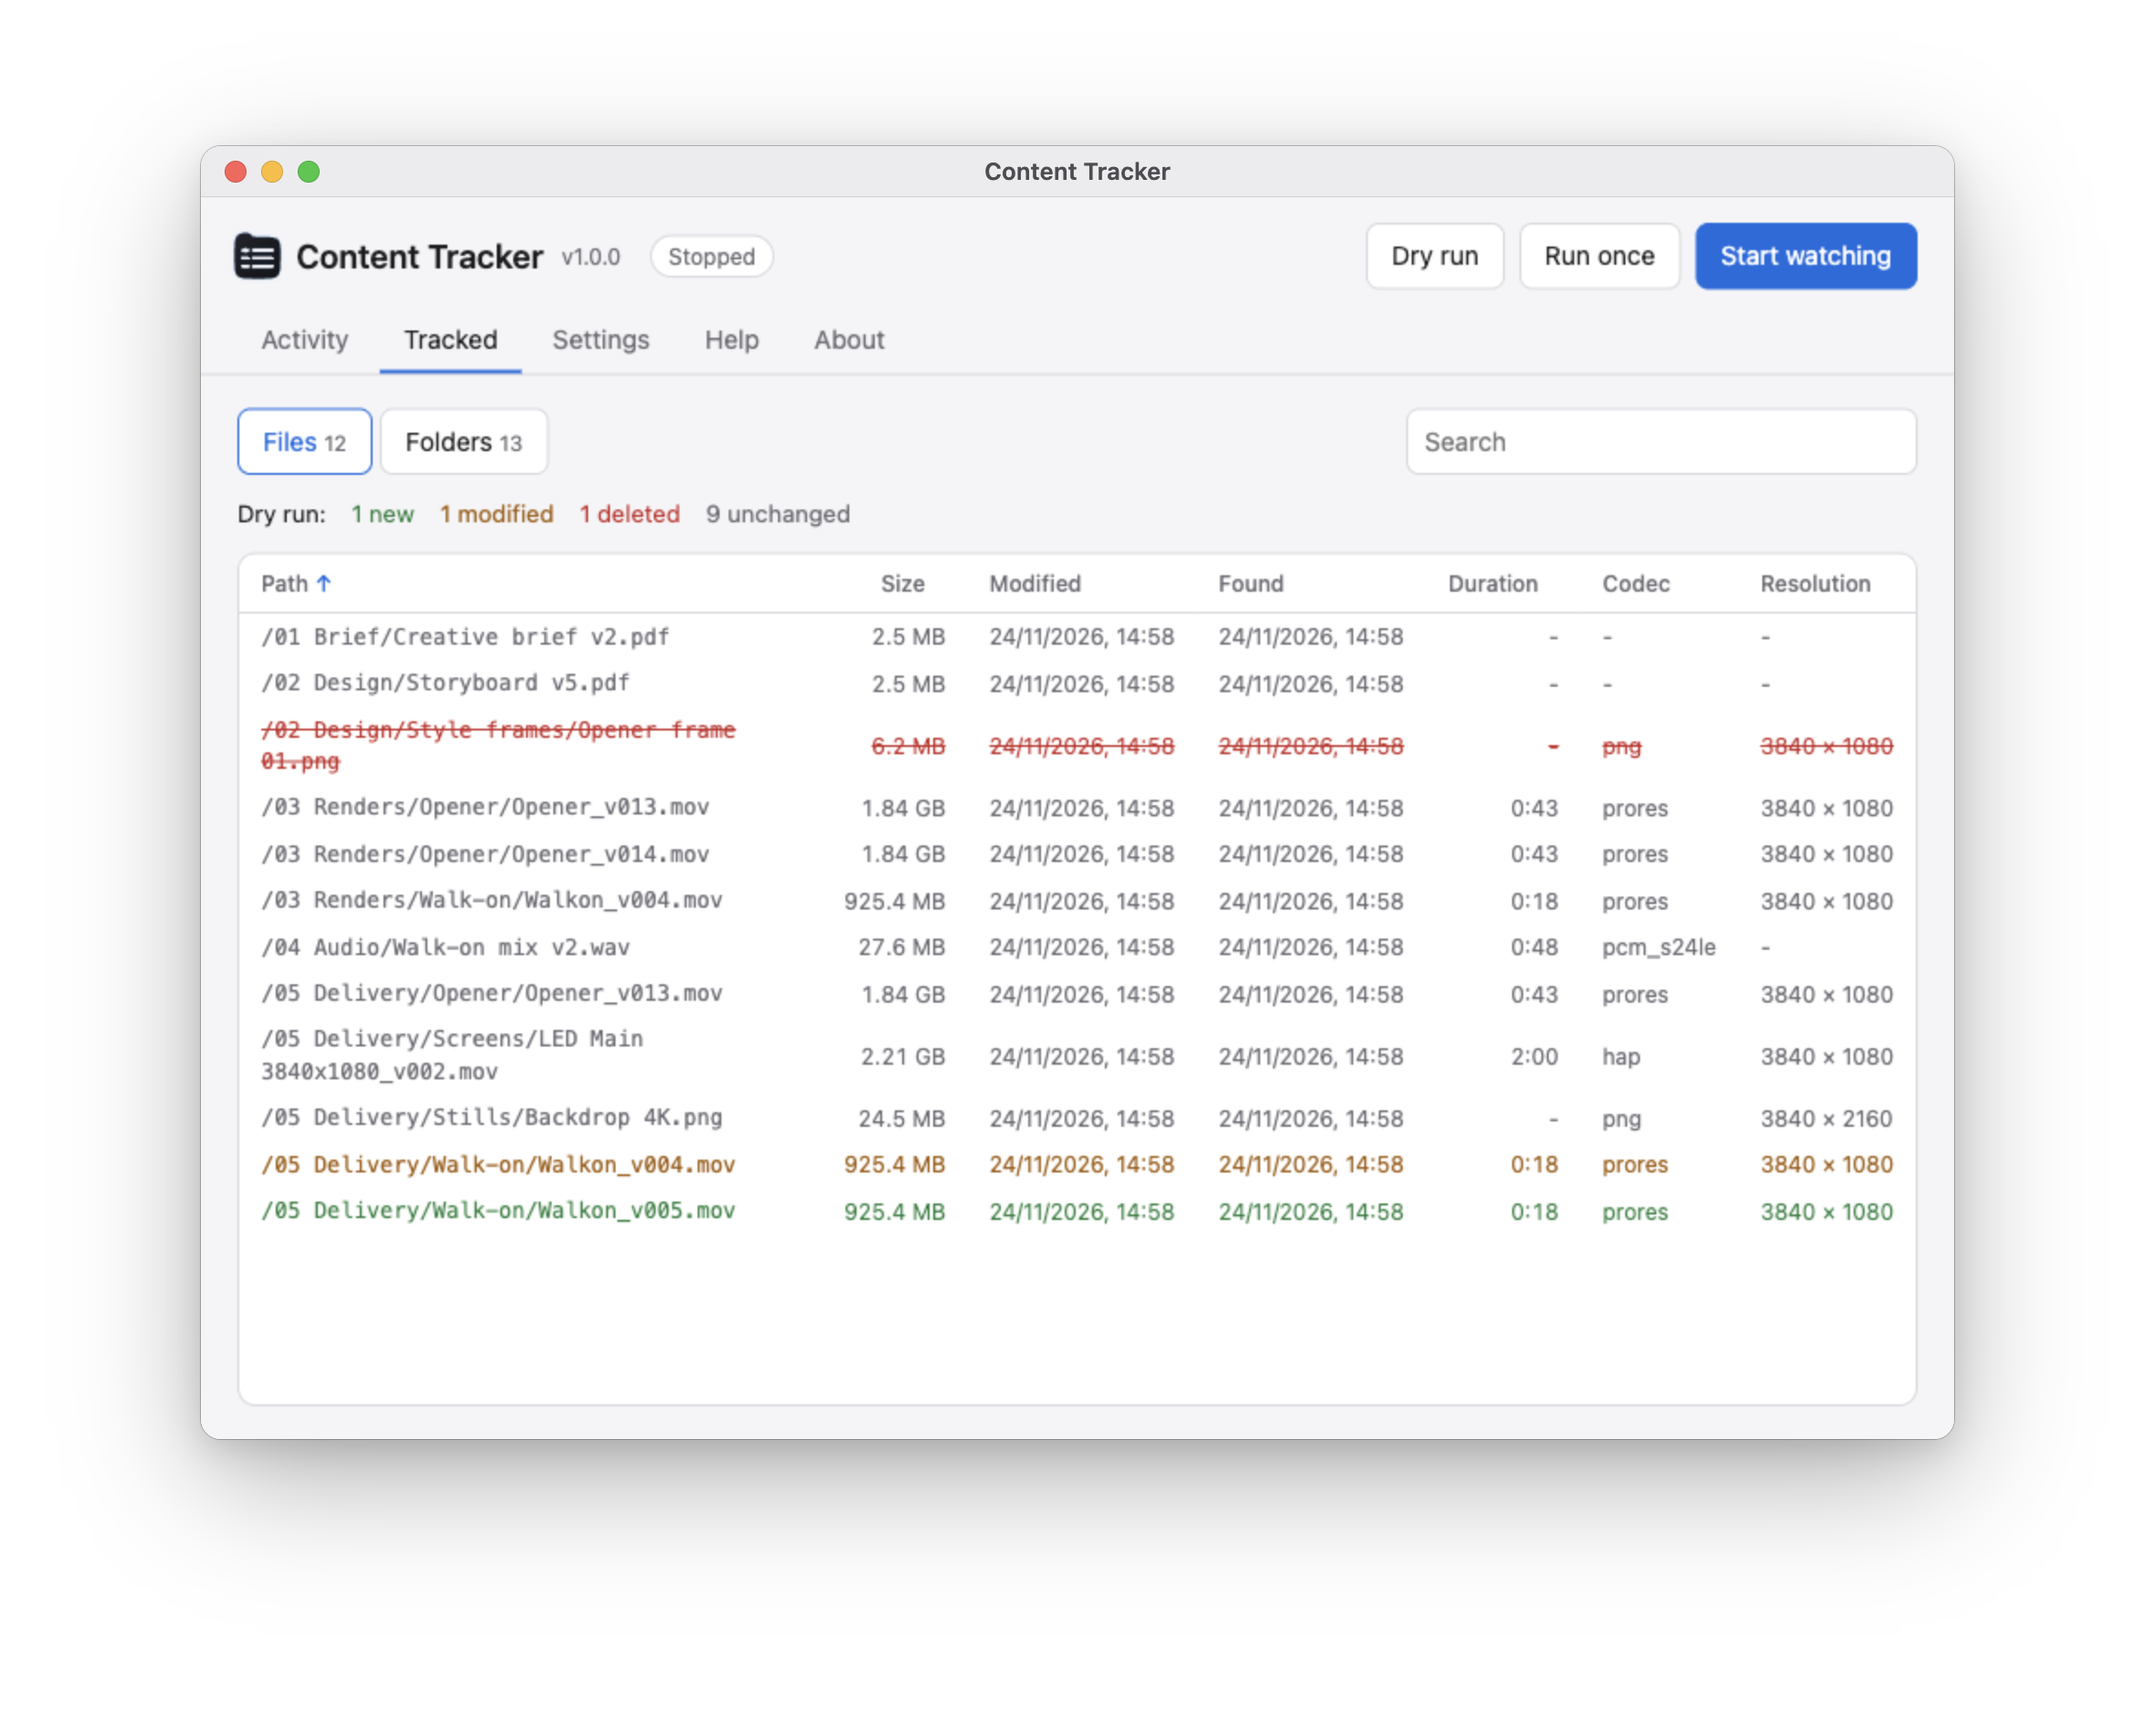
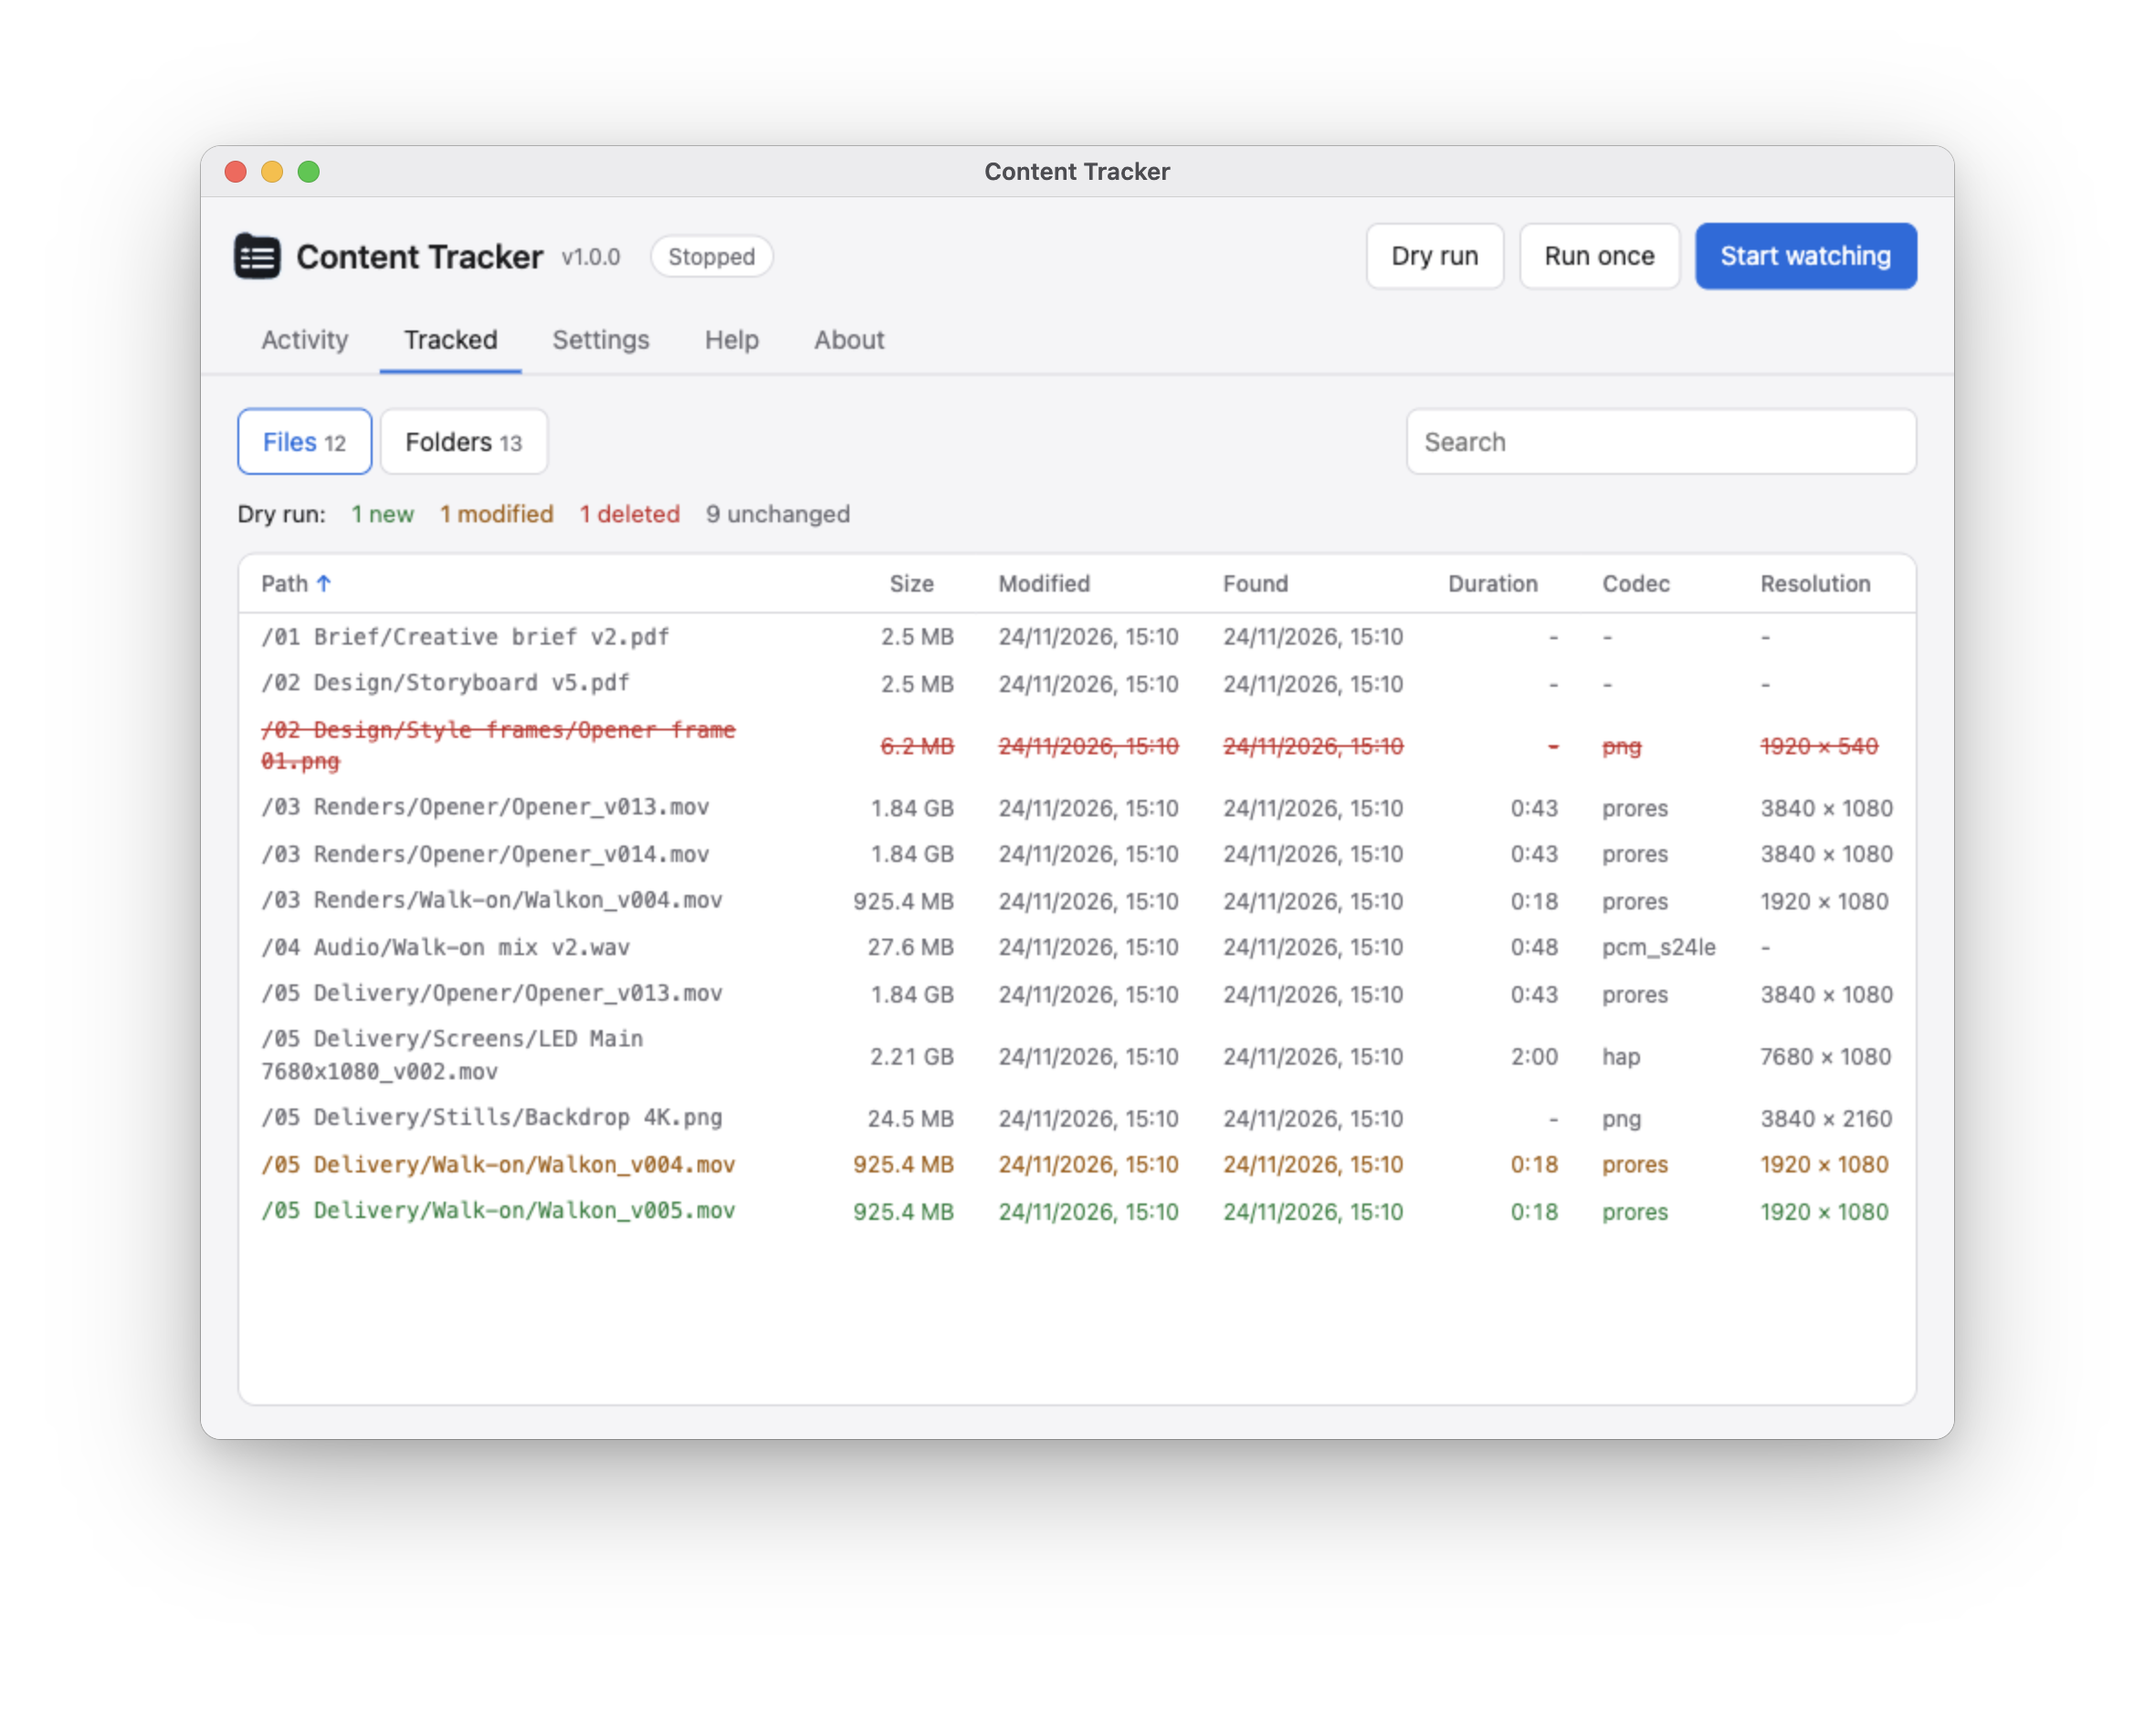
No more tokens
- npm takes releases from this repository's workflow by trusted publishing,
  so the workflow no longer needs an npm token, and there's none to renew.
- The README's tagline and Quick Start, tightened.
- The screenshots' sample media has a spread of resolutions, from an HD
  walk-on to a 7680 x 1080 LED wall, in the Tracked tab and the tables.

diff --git a/README.md b/README.md
@@ -2,7 +2,7 @@
 
 <img src="build/icon.svg" alt="Content Tracker logo" width="80" align="left">
 
-### Track the content in your folders on Airtable or Google Sheets
+### Track files & folders to Airtable or Google Sheets
 [![Checks](https://github.com/garethnunns/content-tracker/actions/workflows/ci.yml/badge.svg)](https://github.com/garethnunns/content-tracker/actions/workflows/ci.yml) [![Release](https://img.shields.io/github/v/release/garethnunns/content-tracker)](https://github.com/garethnunns/content-tracker/releases/latest) [![Downloads](https://img.shields.io/github/downloads/garethnunns/content-tracker/total)](https://github.com/garethnunns/content-tracker/releases) [![npm](https://img.shields.io/npm/v/@garethnunns/content-tracker)](https://www.npmjs.com/package/@garethnunns/content-tracker) [![App](https://img.shields.io/badge/app-Mac%20%7C%20Windows-0a6cdf)](#app) [![License: GPL-3.0](https://img.shields.io/github/license/garethnunns/content-tracker)](LICENSE)
 
 <br clear="left">
@@ -11,25 +11,9 @@
 
 This project came about as a means to track video content on concert shows, but is written generically. It recursively scans folders, which can be mapped network drives or streamed cloud storage like Dropbox, Drive, LucidLink or Suite, and keeps a list of the files & folders on Airtable or Google Sheets.
 
-There's a command line version and an app for Mac & Windows, which do the same thing.
+There's a command line version and Mac & Windows app, which do the same thing.
 
 ## Quick Start
-
-### Command line
-
-```sh
-npx @garethnunns/content-tracker
-```
-
-Then you just need to [edit the `config.json` file](#config-file) that was created where the command was executed and re-run with the [config command line option `tracker -c`](#config-option--c---config-path).
-
-_Will require Node 20.19 or newer to be installed, if on Mac probably install with Homebrew:_
-```sh
-/bin/bash -c "$(curl -fsSL https://raw.githubusercontent.com/Homebrew/install/HEAD/install.sh)"
-brew install node
-```
-
-It says when there's a newer version, and how to get it: `npx @garethnunns/content-tracker@latest`, or `npm install -g @garethnunns/content-tracker` if you installed it. Set `CONTENT_TRACKER_NO_UPDATE_CHECK=1` to stop it looking.
 
 ### App
 
@@ -54,6 +38,22 @@ If you already have a config file from the command line, **Import settings** in 
 When there's a newer version, the window and the menu say so: **Update and restart** downloads it from GitHub, checks it's what the release says it is, installs it and opens it again. On a Mac that works once it's in Applications; opened from anywhere else, it opens the new version for you to drag in.
 
 _The app isn't signed yet, so the first time you open it on a Mac right-click it and choose Open, and on Windows choose More info then Run anyway._
+
+### Command line
+
+```sh
+npx @garethnunns/content-tracker
+```
+
+Then you just need to [edit the `config.json` file](#config-file) that was created where the command was executed and re-run with the [config command line option `tracker -c`](#config-option--c---config-path).
+
+_Will require Node 20.19 or newer to be installed, if on Mac probably install with Homebrew:_
+```sh
+/bin/bash -c "$(curl -fsSL https://raw.githubusercontent.com/Homebrew/install/HEAD/install.sh)"
+brew install node
+```
+
+It says when there's a newer version, and how to get it: `npx @garethnunns/content-tracker@latest`, or `npm install -g @garethnunns/content-tracker` if you installed it. Set `CONTENT_TRACKER_NO_UPDATE_CHECK=1` to stop it looking.
 
 <details>
 <summary><h2 id="airtable-setup">Airtable Setup</h2></summary>
@@ -519,7 +519,7 @@ Signing in with Google needs the app's client secret, which isn't in git: set `G
 
 ### Releasing
 
-Publishing a GitHub release, tagged `v<version>`, publishes to npm and attaches the Mac & Windows apps. Each version's release notes are `docs/release-notes/<version>.md`, which become the GitHub release's description, and the release won't publish without them. It needs an `NPM_TOKEN` secret with access to the package, and a `GOOGLE_CLIENT_SECRET` secret with the Google client secret.
+Publishing a GitHub release, tagged `v<version>`, publishes to npm and attaches the Mac & Windows apps. Each version's release notes are `docs/release-notes/<version>.md`, which become the GitHub release's description, and the release won't publish without them. npm takes it from this repository's release workflow with no token, by [trusted publishing](https://docs.npmjs.com/trusted-publishers), set up in the package's settings on npm. The release needs a `GOOGLE_CLIENT_SECRET` secret with the Google client secret.
 
 Dependabot opens a pull request each week for packages with newer versions, and minor and patch updates merge by themselves once the checks pass. Major updates, and the workflows' actions, wait for someone to merge them.
 
